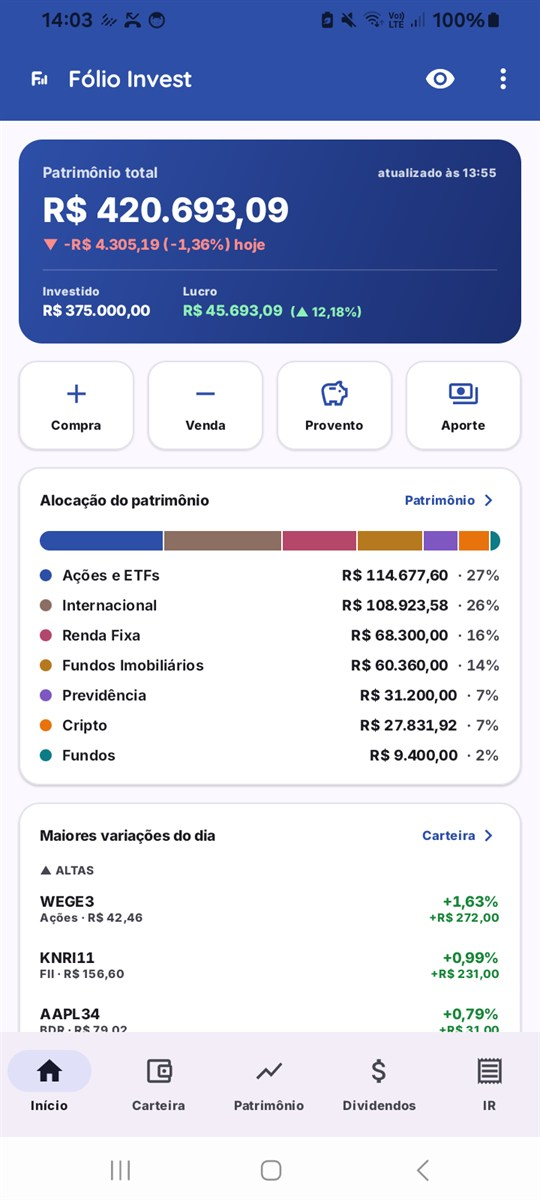
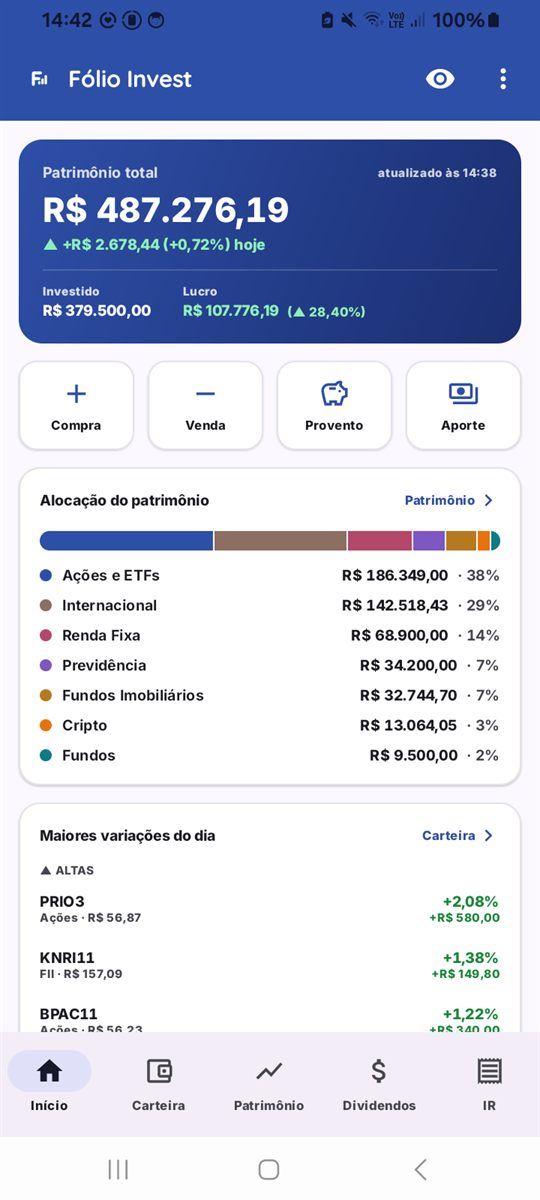
Atualiza os prints do site com as capturas da carteira ficticia
Substitui cinco telas pelas capturas limpas do pacote da Play (raw-*, 720x1600,
mesma proporcao do site), reduzidas para 540x1200 em JPEG: Inicio, Carteira,
Patrimonio, Dividendos e Relatorio de IRPF. Inclui a tela de Comparativo, que
nao existia na galeria.

As capturas antigas eram da carteira real do dono. As novas sao da carteira
ficticia montada para a ficha da Play — o site deixa de expor patrimonio,
posicoes e proventos reais.

Por isso o titulo da galeria deixa de ser "Telas reais, dados reais": com dados
ficticios a segunda metade da frase seria falsa. Vira "Telas reais do app", que
e o que continua verdadeiro — sao capturas do app, nao maquete. O alt do hero
acompanha o valor novo.

Nao foram usadas as store-*.png: aquelas sao as pecas da loja, com fundo e
headline embutidos, e dentro da moldura de celular do site dariam moldura sobre
moldura e texto duplicado.

Galeria passa a 6 colunas no desktop. As sete imagens somam 502 KB, menos que
as seis anteriores (529 KB).

diff --git a/index.html b/index.html
@@ -80,7 +80,7 @@
     <div class="heroart">
       <div class="phone">
         <img src="assets/img/inicio.jpg" width="540" height="1200"
-             alt="Tela Início do Fólio: patrimônio total de R$ 420.693, alocação por classe de ativo e maiores variações do dia">
+             alt="Tela Início do Fólio: patrimônio total de R$ 487.276, alocação por classe de ativo e maiores variações do dia">
       </div>
     </div>
   </div>
@@ -90,10 +90,11 @@
 <section id="galeria">
   <div class="wrap">
     <p class="eyebrow">Por dentro do app</p>
-    <h2>Telas reais, dados reais</h2>
+    <h2>Telas reais do app</h2>
     <p class="sub">Nada de maquete: é exatamente o que você vê ao abrir o Fólio.</p>
     <div class="gallery">
       <figure class="shot" style="margin:0"><div class="phone"><img src="assets/img/carteira.jpg" width="540" height="1200" alt="Tela Carteira: cotações ao vivo, rentabilidade e alocação por classe" loading="lazy"></div><figcaption class="cap"><b>Carteira ao vivo</b>Cotações e % a.a. por classe</figcaption></figure>
+      <figure class="shot" style="margin:0"><div class="phone"><img src="assets/img/comparativo.jpg" width="540" height="1200" alt="Tela Carteira com o comparativo ligado: a rentabilidade da carteira no gráfico ao lado de IBOV, CDI e IPCA no mesmo período" loading="lazy"></div><figcaption class="cap"><b>Comparativo</b>Sua carteira × IBOV, CDI e IPCA</figcaption></figure>
       <figure class="shot" style="margin:0"><div class="phone"><img src="assets/img/patrimonio.jpg" width="540" height="1200" alt="Tela Patrimônio: gráfico de evolução de aportado vs. valor de mercado" loading="lazy"></div><figcaption class="cap"><b>Evolução</b>Aportado vs. mercado</figcaption></figure>
       <figure class="shot" style="margin:0"><div class="phone"><img src="assets/img/dividendos.jpg" width="540" height="1200" alt="Tela Dividendos: total recebido, origem por tipo e ranking de ativos" loading="lazy"></div><figcaption class="cap"><b>Dividendos</b>Origem + top ativos</figcaption></figure>
       <figure class="shot" style="margin:0"><div class="phone"><img src="assets/img/ir.jpg" width="540" height="1200" alt="Tela IR mensal: DARF apurado mês a mês" loading="lazy"></div><figcaption class="cap"><b>IR mensal</b>DARF mês a mês</figcaption></figure>

diff --git a/style.css b/style.css
@@ -146,7 +146,7 @@ footer a.fl:hover{color:#fff}
   .hero .wrap{grid-template-columns:1.05fr .95fr;align-items:center;padding-top:76px;padding-bottom:88px}
   .hero h1{font-size:44px}
   .features{grid-template-columns:repeat(3,1fr)}
-  .gallery{grid-template-columns:repeat(5,1fr);gap:14px}
+  .gallery{grid-template-columns:repeat(6,1fr);gap:14px}
   .shot .phone{width:100%;max-width:160px}
   .shot .cap{font-size:12.5px}.shot .cap b{font-size:13px}
   .ftgrid{grid-template-columns:2fr 1fr 1fr}
